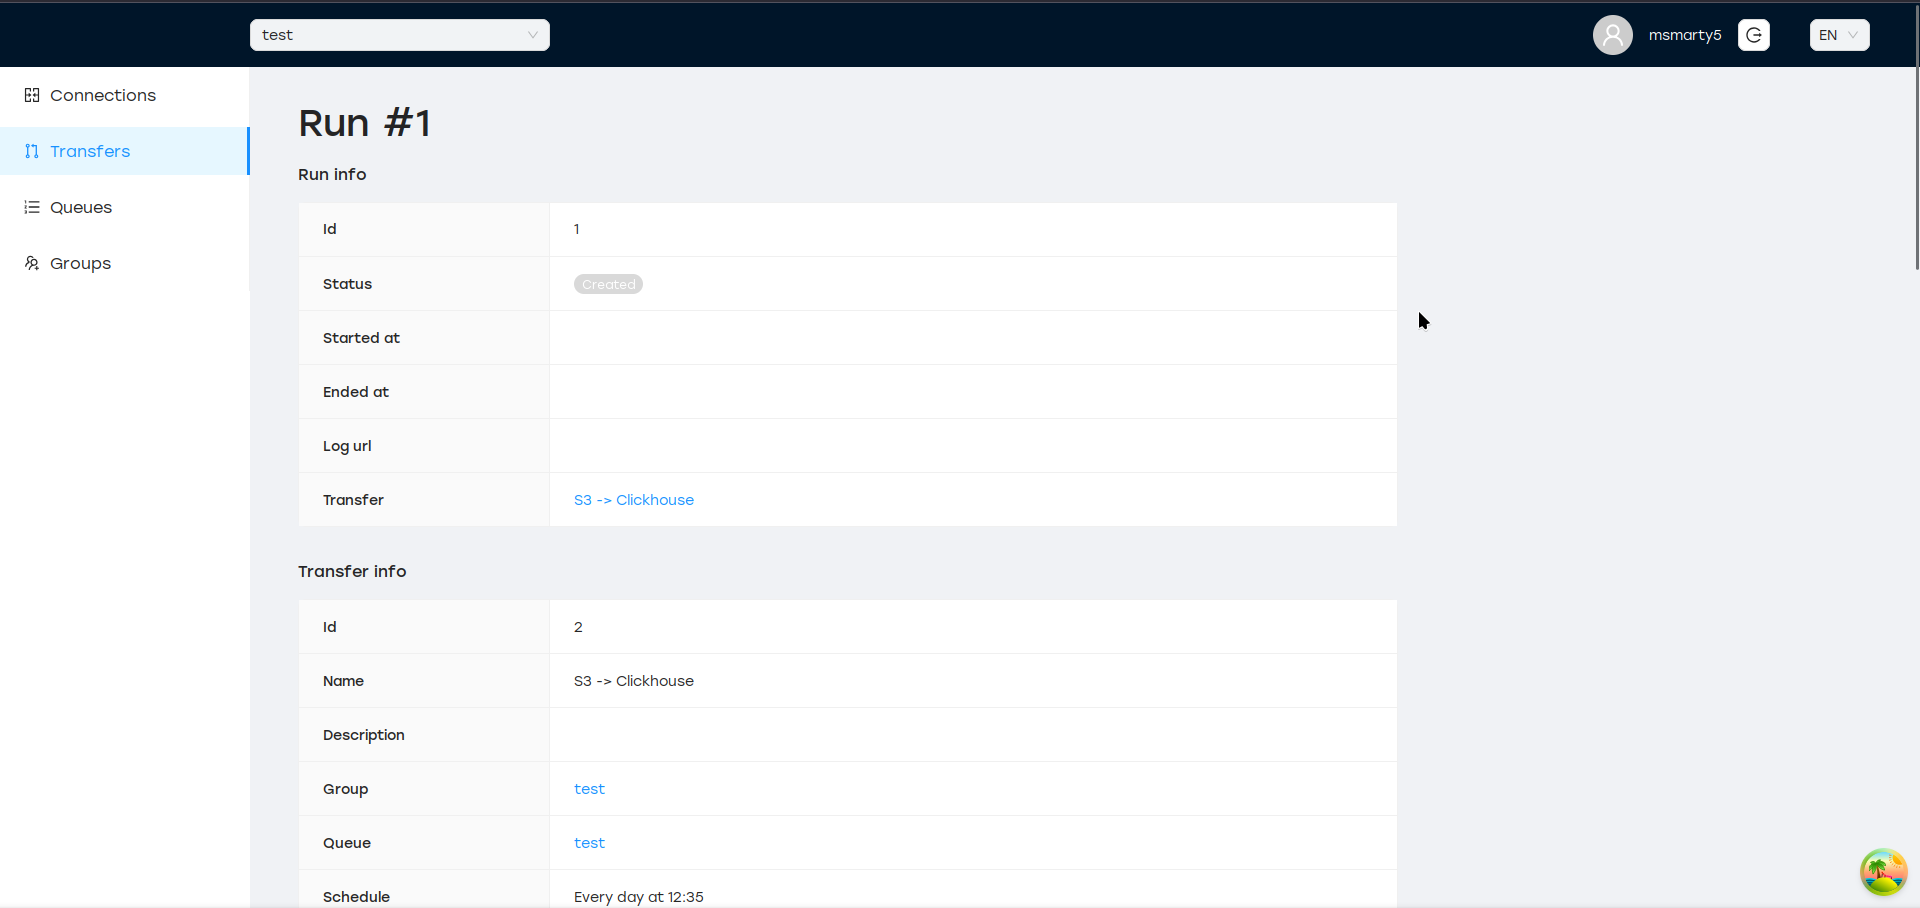
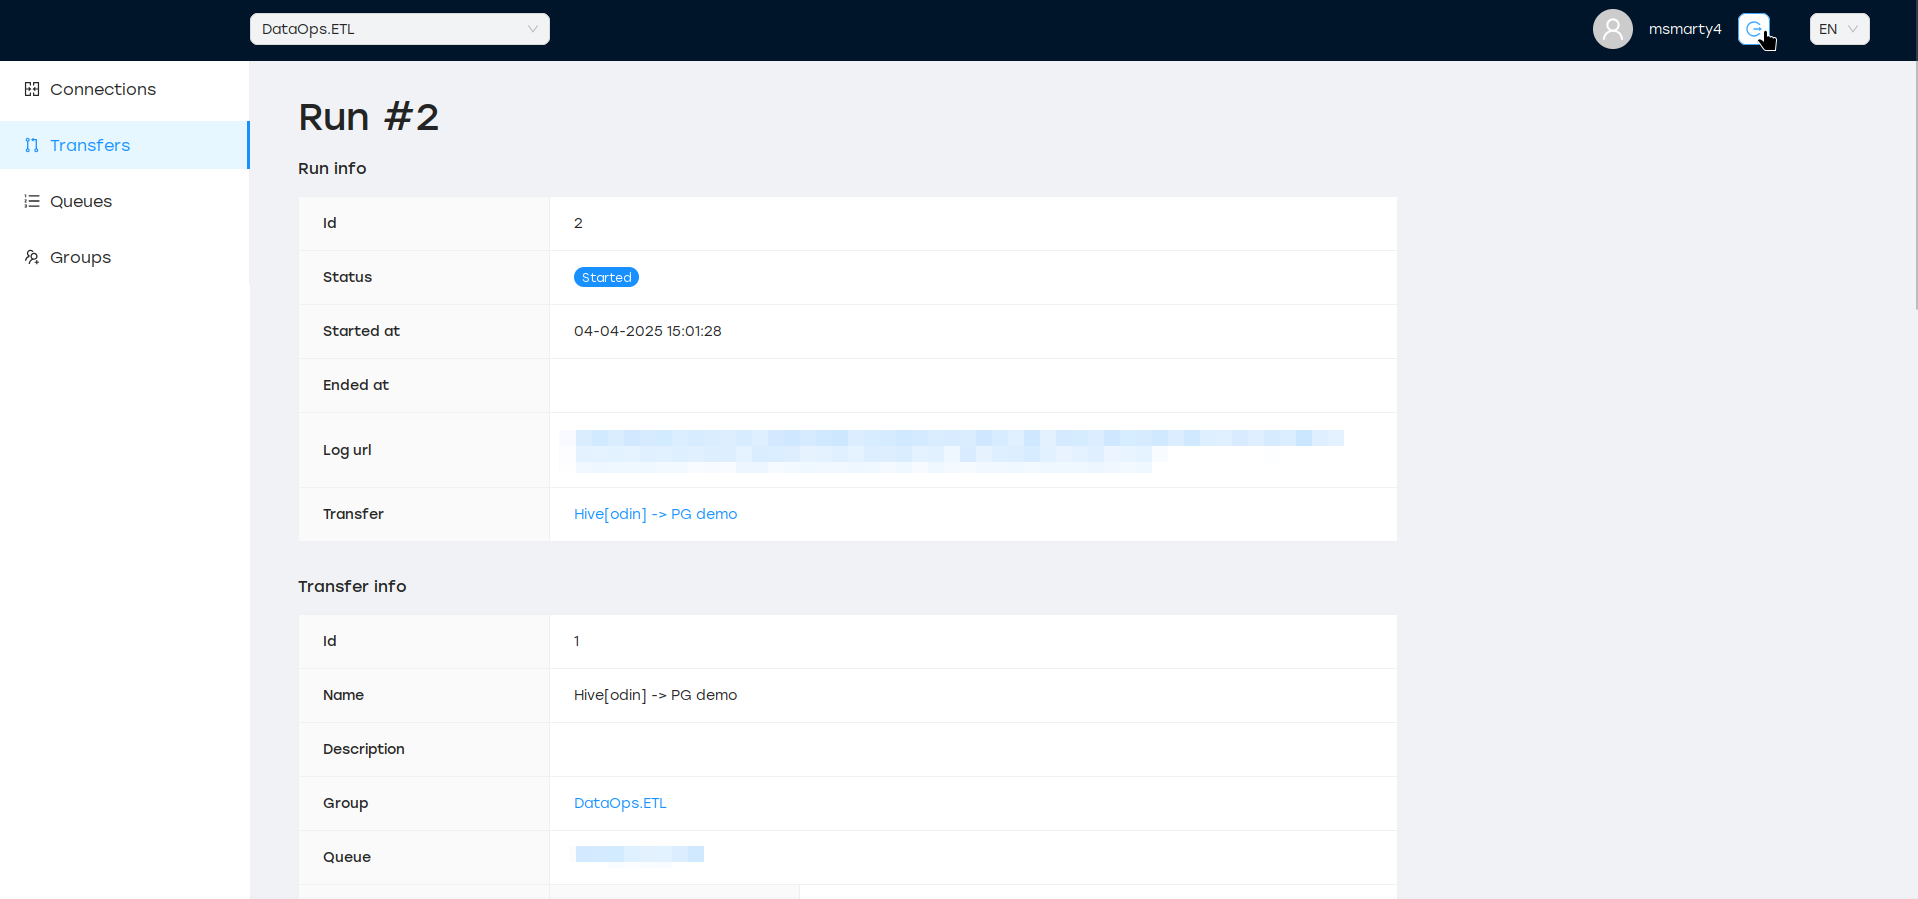
[DOP-23620] Small doc fixes

diff --git a/docs/design/entities/index.rst b/docs/design/entities/index.rst
@@ -68,7 +68,7 @@ Run
 ---
 
 Each time transfer is started (manually or at some schedule), SyncMaster creates dedicated Run
-which tracks the ETL process status.
+which tracks the ETL process status, URL to worker logs and so on.
 
 .. image:: ./run_list.png
 .. image:: ./run_info.png
